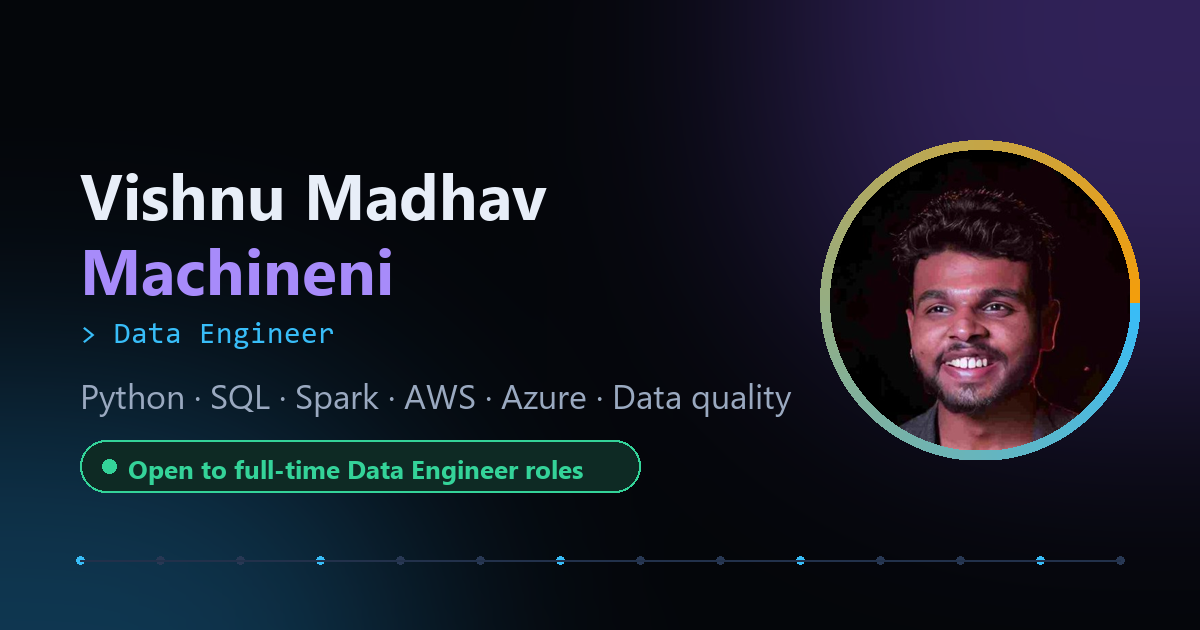
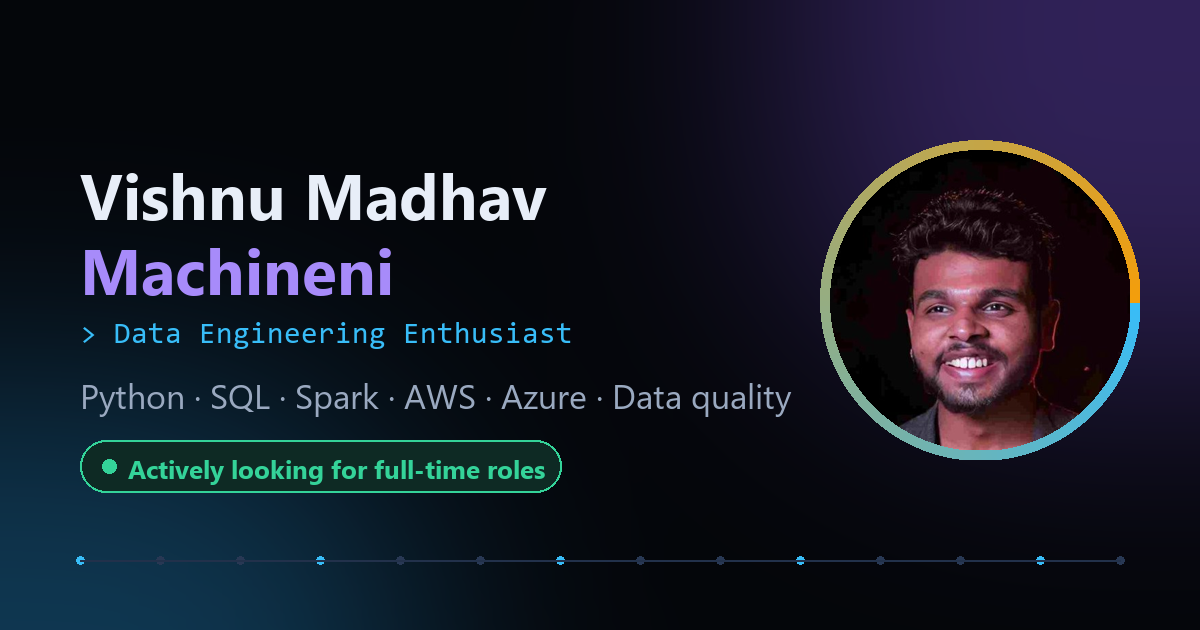
Add LinkedIn profile and reposition as data engineering enthusiast seeking full-time roles

Changed region(s): [[0.0925, 0.6937, 0.555, 0.7841], [0.2775, 0.5127, 0.4933, 0.5429]]

diff --git a/index.html b/index.html
@@ -3,24 +3,24 @@
 <head>
   <meta charset="utf-8">
   <meta name="viewport" content="width=device-width, initial-scale=1">
-  <title>Vishnu Madhav Machineni · Data Engineer</title>
-  <meta name="description" content="Vishnu Madhav Machineni is a Data Engineer in Trier, Germany building reliable ETL/ELT pipelines with Python, SQL, Spark and AWS/Azure. Actively looking for full-time Data Engineer roles.">
+  <title>Vishnu Madhav Machineni · Data Engineering Enthusiast</title>
+  <meta name="description" content="Vishnu Madhav Machineni is a data engineering enthusiast in Trier, Germany who builds reliable ETL/ELT pipelines with Python, SQL, Spark and AWS/Azure. Actively looking for full-time roles in data engineering.">
   <meta name="author" content="Vishnu Madhav Machineni">
   <meta name="theme-color" content="#0a0e17">
   <link rel="icon" href="assets/img/favicon.svg" type="image/svg+xml">
   <link rel="canonical" href="https://vishnumac03.github.io/">
 
   <meta property="og:type" content="website">
-  <meta property="og:title" content="Vishnu Madhav Machineni · Data Engineer">
-  <meta property="og:description" content="Building reliable data pipelines with Python, SQL, Spark and the cloud. Actively looking for full-time Data Engineer roles.">
-  <meta property="og:image" content="https://vishnumac03.github.io/assets/img/og-card.png">
+  <meta property="og:title" content="Vishnu Madhav Machineni · Data Engineering Enthusiast">
+  <meta property="og:description" content="Data engineering enthusiast building reliable pipelines with Python, SQL, Spark and the cloud. Actively looking for full-time roles.">
+  <meta property="og:image" content="https://vishnumac03.github.io/assets/img/og-card.png?v=2">
   <meta property="og:url" content="https://vishnumac03.github.io/">
   <meta name="twitter:card" content="summary_large_image">
 
   <link rel="preconnect" href="https://fonts.googleapis.com">
   <link rel="preconnect" href="https://fonts.gstatic.com" crossorigin>
   <link href="https://fonts.googleapis.com/css2?family=Inter:wght@400;500;600;700&family=JetBrains+Mono:wght@400;600&family=Space+Grotesk:wght@500;600;700&display=swap" rel="stylesheet">
-  <link rel="stylesheet" href="assets/css/style.css?v=20261020b">
+  <link rel="stylesheet" href="assets/css/style.css?v=20261020c">
 
   <script>
     // apply the saved or system theme before first paint
@@ -36,12 +36,12 @@
     "@context": "https://schema.org",
     "@type": "Person",
     "name": "Vishnu Madhav Machineni",
-    "jobTitle": "Data Engineer",
+    "jobTitle": "Data Engineering Enthusiast",
     "email": "mailto:vishnumachineni03@gmail.com",
     "address": { "@type": "PostalAddress", "addressLocality": "Trier", "addressCountry": "DE" },
     "alumniOf": ["University of Petroleum and Energy Studies"],
     "affiliation": "Universität Trier",
-    "sameAs": ["https://github.com/VISHNUMAC03"]
+    "sameAs": ["https://github.com/VISHNUMAC03", "https://www.linkedin.com/in/vishnu-madhav-16ab6a1a2/"]
   }
   </script>
 </head>
@@ -88,12 +88,12 @@
         <div class="hero__copy">
           <a class="status" href="#contact">
             <span class="status__dot"></span>
-            Actively looking for full-time Data Engineer roles
+            Data engineering enthusiast · Actively looking for full-time roles
           </a>
           <p class="hero__hello">Hi, I'm Vishnu 👋</p>
           <h1 class="hero__name">Vishnu Madhav <span class="grad">Machineni</span></h1>
           <p class="hero__role" aria-live="polite">
-            <span class="mono">&gt;</span> <span id="typed">Data Engineer</span><span class="caret" aria-hidden="true"></span>
+            <span class="mono">&gt;</span> <span id="typed">Data Engineering Enthusiast</span><span class="caret" aria-hidden="true"></span>
           </p>
           <p class="hero__lead">
             I build reliable data pipelines that turn raw, messy data into clean, analytics-ready tables,
@@ -273,9 +273,9 @@
         <div class="contact reveal">
           <div class="contact__copy">
             <p class="eyebrow">08 · Contact</p>
-            <h2>Hiring a <span class="grad">Data Engineer?</span></h2>
+            <h2>Hiring for a <span class="grad">data role?</span></h2>
             <p class="contact__lead">
-              I'm actively looking for a <strong>full-time Data Engineer role</strong>. If your team needs someone who
+              I'm a data engineering enthusiast actively looking for a <strong>full-time role</strong>. If your team needs someone who
               builds tested, well-documented pipelines and cares about data quality, let's talk.
             </p>
             <div class="contact__quick">
@@ -289,7 +289,7 @@
           <form class="contact__form card" id="contact-form">
             <label>Your name<input name="name" required autocomplete="name"></label>
             <label>Company<input name="company" autocomplete="organization"></label>
-            <label>Message<textarea name="message" rows="4" required placeholder="Hi Vishnu, we have a Data Engineer opening..."></textarea></label>
+            <label>Message<textarea name="message" rows="4" required placeholder="Hi Vishnu, we have a full-time data role..."></textarea></label>
             <button class="btn btn--primary" type="submit">Open in my email app</button>
             <p class="form-note muted">This opens your email app with the message filled in. Nothing is stored on this site.</p>
           </form>
@@ -323,7 +323,7 @@
 
   <noscript><p class="noscript">This site works best with JavaScript enabled. Contact: vishnumachineni03@gmail.com</p></noscript>
 
-  <script src="assets/js/data.js?v=20261020b"></script>
-  <script src="assets/js/main.js?v=20261020b"></script>
+  <script src="assets/js/data.js?v=20261020c"></script>
+  <script src="assets/js/main.js?v=20261020c"></script>
 </body>
 </html>

diff --git a/assets/js/main.js b/assets/js/main.js
@@ -540,7 +540,7 @@
   $("#contact-form").addEventListener("submit", function (e) {
     e.preventDefault();
     var f = new FormData(e.target);
-    var subject = "Data Engineer opportunity" + (f.get("company") ? " at " + f.get("company") : "");
+    var subject = "Full-time data role" + (f.get("company") ? " at " + f.get("company") : "");
     var body = f.get("message") + "\n\n— " + f.get("name") + (f.get("company") ? ", " + f.get("company") : "");
     window.location.href = "mailto:" + D.email + "?subject=" + encodeURIComponent(subject) + "&body=" + encodeURIComponent(body);
     toast("Opening your email app…");
@@ -587,7 +587,8 @@
       { label: "Copy email address", hint: "action", run: copyEmail },
       { label: "Toggle light / dark theme", hint: "action", run: toggleTheme },
       { label: "Download résumé as PDF", hint: "action", run: printResume },
-      { label: "Open GitHub profile", hint: "link", run: function () { window.open(D.links.github, "_blank", "noopener"); } }
+      { label: "Open GitHub profile", hint: "link", run: function () { window.open(D.links.github, "_blank", "noopener"); } },
+      { label: "Open LinkedIn profile", hint: "link", run: function () { if (D.links.linkedin) window.open(D.links.linkedin, "_blank", "noopener"); } }
     ].concat(D.projects.map(function (p) { return { label: "Project: " + p.title, hint: "case study", run: function () { openProject(p.id); } }; }));
     function render() {
       var q = inp.value.trim().toLowerCase();

diff --git a/assets/js/data.js b/assets/js/data.js
@@ -5,23 +5,23 @@
 window.PORTFOLIO = {
   name: "Vishnu Madhav Machineni",
   firstName: "Vishnu",
-  title: "Data Engineer",
+  title: "Data Engineering Enthusiast",
   location: "Trier, Germany",
   email: "vishnumachineni03@gmail.com",
   links: {
     github: "https://github.com/VISHNUMAC03",
-    linkedin: "" // add your LinkedIn URL here and the button appears automatically
+    linkedin: "https://www.linkedin.com/in/vishnu-madhav-16ab6a1a2/"
   },
-  availability: "Actively looking for full-time Data Engineer roles",
+  availability: "Actively looking for full-time roles in data engineering",
   roles: [
-    "Data Engineer",
+    "Data Engineering Enthusiast",
     "ETL / ELT pipeline builder",
-    "Big Data engineer",
+    "Big Data explorer",
     "Cloud data wrangler",
     "SQL optimiser"
   ],
   summary:
-    "I build reliable data pipelines that turn raw, messy data into clean, analytics-ready tables. " +
+    "I'm a data engineering enthusiast who builds reliable data pipelines that turn raw, messy data into clean, analytics-ready tables. " +
     "With a B.Tech in Computer Science (Big Data), industry experience automating data workflows, APIs and SQL, " +
     "and an ongoing M.Sc. in Data Science at Universität Trier, I care about pipelines that are tested, observable and easy to trust.",
 

diff --git a/README.md b/README.md
@@ -1,4 +1,4 @@
-# Vishnu Madhav Machineni · Data Engineer Portfolio
+# Vishnu Madhav Machineni · Data Engineering Portfolio
 
 My personal portfolio website, built from scratch with plain HTML, CSS and JavaScript (no frameworks, no build step).
 
@@ -28,4 +28,4 @@ Then open http://localhost:8000.
 
 ## Contact
 
-vishnumachineni03@gmail.com · Actively looking for full-time Data Engineer roles.
+vishnumachineni03@gmail.com · [LinkedIn](https://www.linkedin.com/in/vishnu-madhav-16ab6a1a2/) · Data engineering enthusiast, actively looking for full-time roles.
